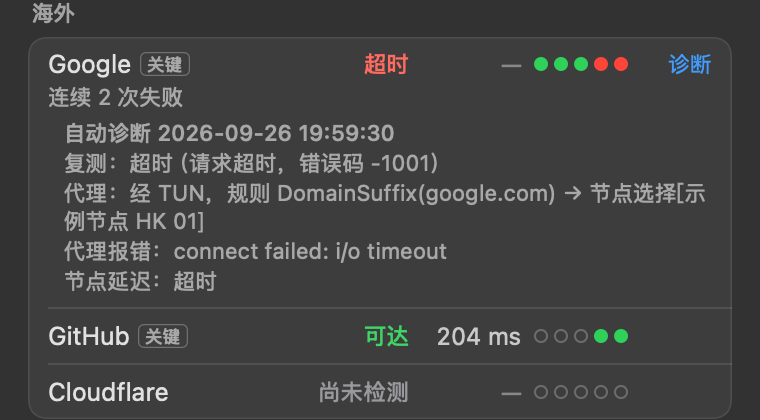
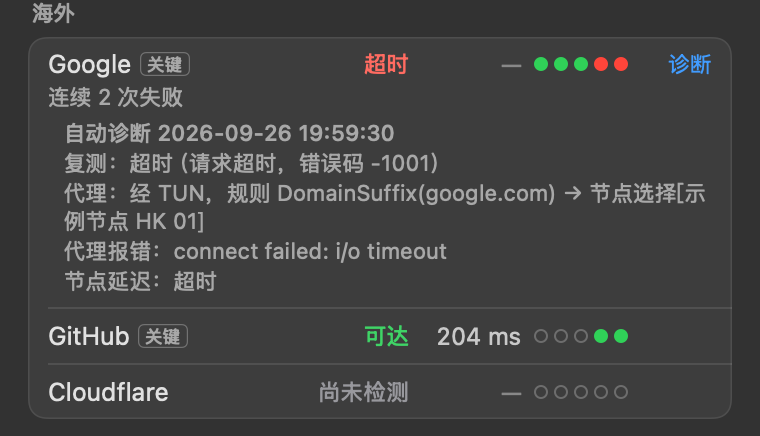
chore: 0.5.0, sync the English README
- Bump the version to 0.5.0 for the popover and settings reorganization
  and the standalone exit IP section.
- README.en.md: describe the exit IP section, its targets and the three
  settings tabs, and note that exit targets are contacted only on click.
- Extend the proxy diagnosis crop so the group card's bottom edge shows.

diff --git a/Sources/TunCanaryCore/Basics/AppIdentity.swift b/Sources/TunCanaryCore/Basics/AppIdentity.swift
@@ -8,7 +8,7 @@ public enum AppIdentity {
     /// 界面显示名称。
     public static let displayName = "TunCanary"
     /// 版本号。`scripts/build-app.sh` 从这里读取并写入 Info.plist，只在此处修改。
-    public static let version = "0.4.0"
+    public static let version = "0.5.0"
 }
 
 /// 已知路径。全部以 home 目录为参数计算，不写死用户名。

diff --git a/README.en.md b/README.en.md
@@ -39,6 +39,10 @@ It also probes a list of sites in groups, by default every 2 minutes, and alerts
 
 <p align="center"><picture><source media="(prefers-color-scheme: dark)" srcset="docs/images/proxy-diagnosis-dark.png"><img src="docs/images/proxy-diagnosis-light.png" width="380" alt="Proxy diagnosis under a site row"></picture></p>
 
+The "出口 IP" (exit IP) section runs only when you click its check button. For each target it shows the exit IP this app uses to reach it, and where that IP is located. Cloudflare is always checked; Claude, ChatGPT and Taobao can each be turned on, and you can add up to five custom domains. When the proxy routes by domain, different targets may see different exits. Every target except Taobao is checked through `https://<domain>/cdn-cgi/trace`, so a custom domain must be behind Cloudflare. Taobao is not, so it uses Taobao's IP lookup (`ip.taobao.com`), an unofficial, rate-limited endpoint that may stop working.
+
+Settings open from "设置" at the bottom of the popover and are split into three tabs: 站点 (sites, the VPN site, the tailnet subnet target, exit IP targets and test pages), 代理与 DNS (proxy client, DNS rules, probe domain) and 通用 (check interval, notifications, launch at login, VPN adapters). A tab with an error shows a red dot.
+
 The Tailnet card turns red when the MagicDNS address or `100.64.0.0/10` is not routed through the Tailscale tunnel, when the tailnet subnet target leaves through the default route, the proxy's TUN or another tunnel (the subnet route is not in effect), or when a TCP connection to the target fails three rounds in a row. It turns yellow when MagicDNS does not answer, or when the system resolves this Mac's MagicDNS name to a fake-ip, another address, or not at all. It is grey, and the target is not probed, when the target lies in the current network's subnet (for example at the site itself, or on another network that happens to use the same range) or when Tailscale is not connected. A grey Tailnet card does not affect the overall status or the exit code. The TCP probe only opens a connection; a refused connection still proves the path works.
 
 ## VPNs and always-on tunnels
@@ -142,7 +146,7 @@ Once installed, the primary DNS card shows whether the guard is installed and th
 
 ## Privacy
 
-The menu bar app only reads state. It never changes DNS, TUN, proxy or VPN settings. Only the separately installed DNS guard changes the network service's saved DNS (see above). The app also reads the guard's config, state and events under `/Library/Application Support/TunCanary/` when they exist. When a Tailscale tunnel exists, it asks MagicDNS (`100.100.100.100`) for this Mac's name and resolves that name; when a tailnet subnet target is set, it opens TCP connections to it. MagicDNS names and the tailnet domain are never written to evidence or diagnostics. It collects and uploads nothing. Diagnostics, command-line output and notifications are redacted: private IP addresses keep only the first octet, and the VPN site URL and home directory are removed. A redacted log of when faults appeared, changed and cleared (at most 200 entries) is kept locally in `~/Library/Application Support/TunCanary/events.jsonl`; `scripts/uninstall.sh --clear-settings` removes it.
+The menu bar app only reads state. It never changes DNS, TUN, proxy or VPN settings. Only the separately installed DNS guard changes the network service's saved DNS (see above). The app also reads the guard's config, state and events under `/Library/Application Support/TunCanary/` when they exist. When a Tailscale tunnel exists, it asks MagicDNS (`100.100.100.100`) for this Mac's name and resolves that name; when a tailnet subnet target is set, it opens TCP connections to it. Exit IP targets are contacted only when you click the check button. MagicDNS names and the tailnet domain are never written to evidence or diagnostics. It collects and uploads nothing. Diagnostics, command-line output and notifications are redacted: private IP addresses keep only the first octet, and the VPN site URL and home directory are removed. A redacted log of when faults appeared, changed and cleared (at most 200 entries) is kept locally in `~/Library/Application Support/TunCanary/events.jsonl`; `scripts/uninstall.sh --clear-settings` removes it.
 
 ## License
 
